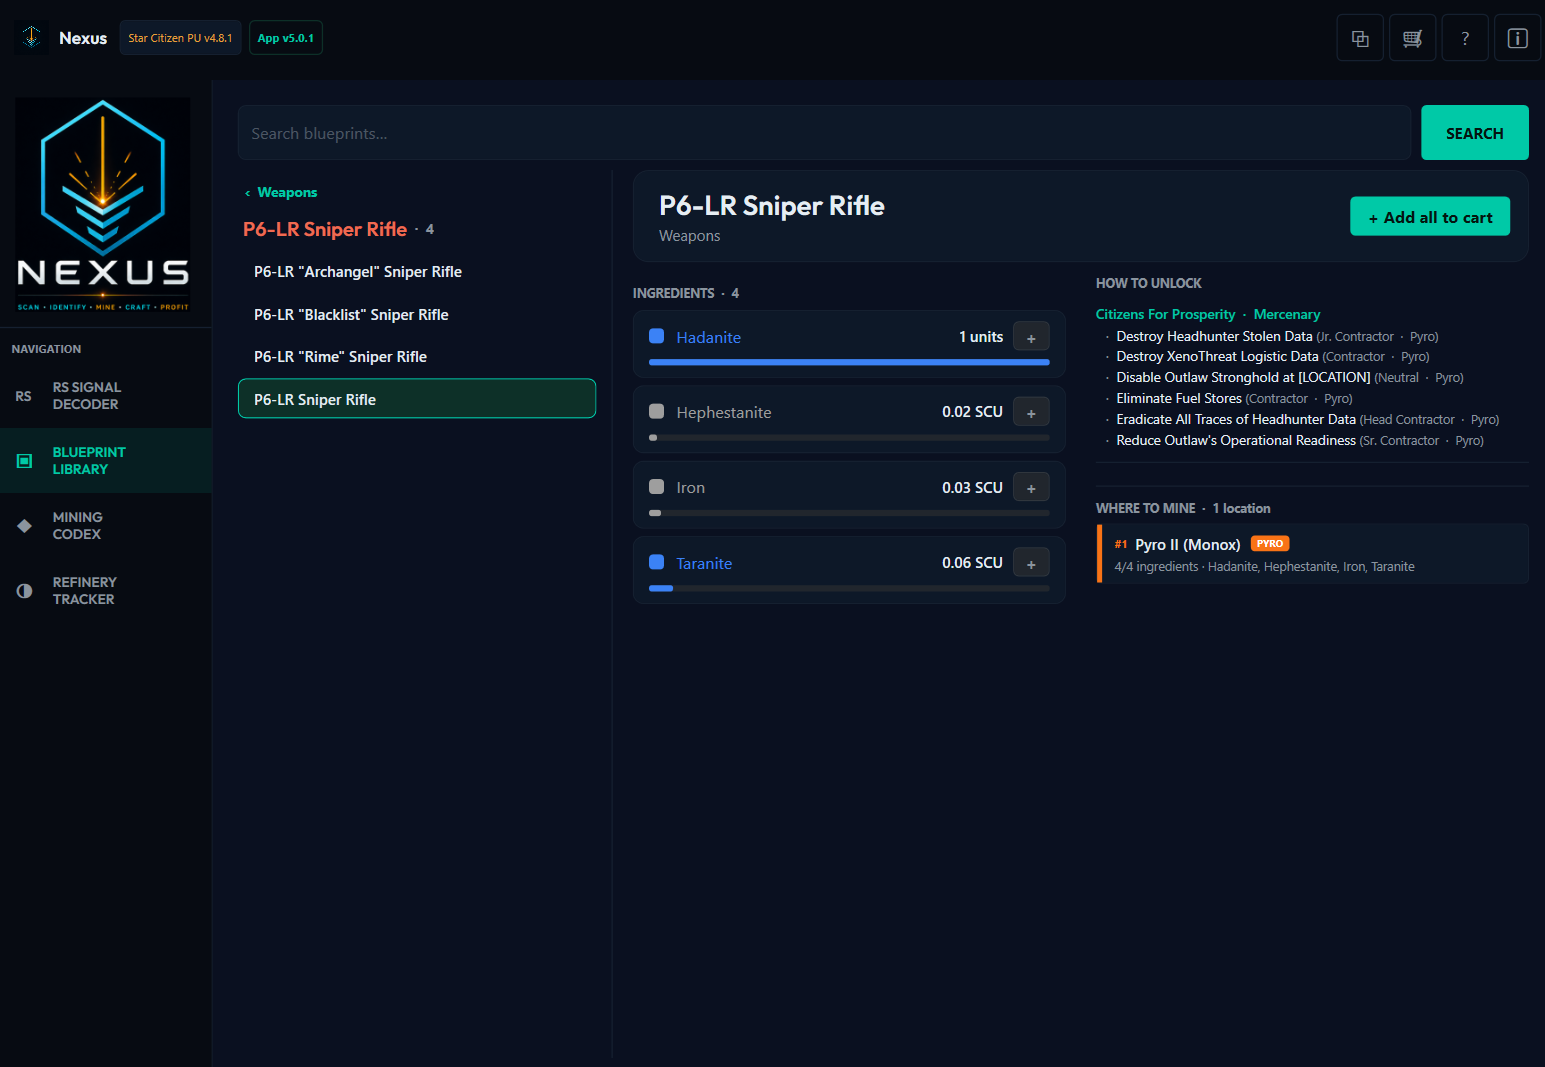
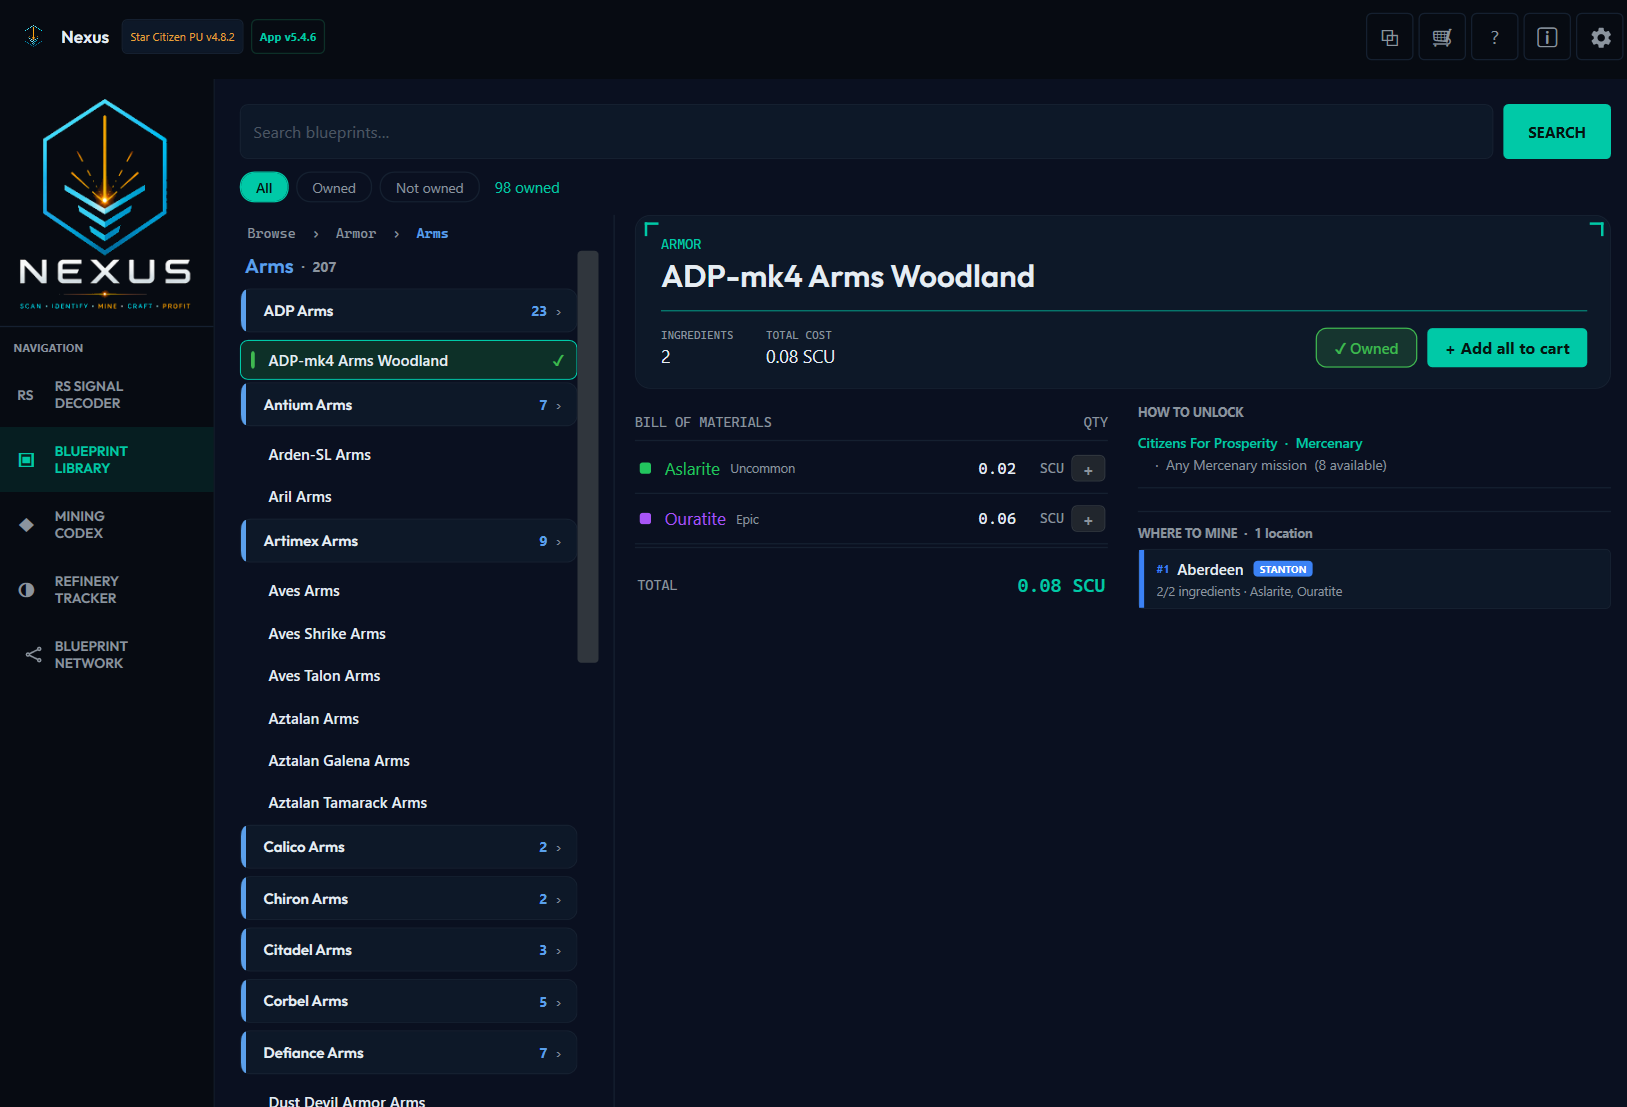
docs: refresh README screenshots and add Blueprint Network shot
- Replace Blueprint Library and Mining Codex screenshots with current UI
- Add Blueprint Network screenshot and a matching Screenshots section
- Update Blueprint Library alt text to match the new recipe shown

diff --git a/README.md b/README.md
@@ -57,7 +57,12 @@ The floating overlay sits over Star Citizen and reads the RS value straight off 
 ### Blueprint Library
 Search any ship, weapon, or armor blueprint to see exactly what it takes to craft — the raw resources and quantities, where to mine them, and the missions that unlock it.
 
-[![Nexus Blueprint Library showing the P6-LR Sniper Rifle recipe, ingredients, and unlock missions](docs/screenshots/blueprint-library.png)](docs/screenshots/blueprint-library.png)
+[![Nexus Blueprint Library showing the ADP-mk4 Arms Woodland armor recipe, bill of materials, and unlock missions](docs/screenshots/blueprint-library.png)](docs/screenshots/blueprint-library.png)
+
+### Blueprint Network
+Pool your owned-blueprint library with friends or your org by trading files — then see the whole group's coverage at a glance: how many blueprints are owned between you, the gaps nobody has yet, and the ones only a single person holds (at risk if they stop playing).
+
+[![Nexus Blueprint Network showing group blueprint coverage, per-member ownership, and single-owner blueprints](docs/screenshots/blueprint-network.png)](docs/screenshots/blueprint-network.png)
 
 ### Mining Codex
 A full reference of every mineable resource — grouped by rarity, searchable, and filterable by star system (Stanton / Pyro / Nyx) and mining method (Ship / ROC / FPS).